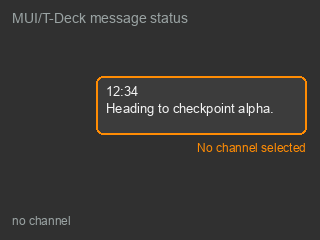
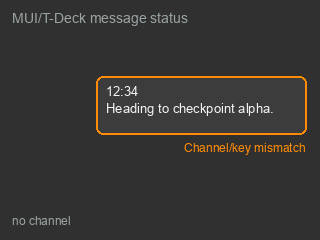
Update NO_CHANNEL message status wording

Changed region(s): [[0.5625, 0.5833, 0.9688, 0.6417]]

diff --git a/source/graphics/common/MessageStatus.cpp b/source/graphics/common/MessageStatus.cpp
@@ -9,7 +9,7 @@ constexpr Presentation channelImplicitAck{"Delivered to mesh", Tone::Success, fa
 constexpr Presentation directImplicitAck{"Relayed, not confirmed by recipient", Tone::Warning, true};
 constexpr Presentation explicitAck{"Delivered to recipient", Tone::Success, false};
 constexpr Presentation noAck{"Failed to deliver to mesh", Tone::RetryableFailure, true};
-constexpr Presentation noChannel{"No channel selected", Tone::RetryableFailure, true};
+constexpr Presentation noChannel{"Channel/key mismatch", Tone::RetryableFailure, true};
 constexpr Presentation genericEncryptedSendFailure{"Could not send encrypted message", Tone::RetryableFailure, true};
 constexpr Presentation recipientKeyUnavailable{"Recipient key unavailable", Tone::RetryableFailure, true};
 constexpr Presentation recipientNeedsSenderKey{"Recipient needs your key", Tone::RetryableFailure, true};

diff --git a/tests/test_MessageStatus.cpp b/tests/test_MessageStatus.cpp
@@ -14,7 +14,7 @@ TEST_CASE("MessageStatus canonical inline text")
           std::string("Relayed, not confirmed by recipient"));
     CHECK(MessageStatus::presentation(State::ExplicitAck).text == std::string("Delivered to recipient"));
     CHECK(MessageStatus::presentation(State::NoAck).text == std::string("Failed to deliver to mesh"));
-    CHECK(MessageStatus::presentation(State::NoChannel).text == std::string("No channel selected"));
+    CHECK(MessageStatus::presentation(State::NoChannel).text == std::string("Channel/key mismatch"));
     CHECK(MessageStatus::presentation(State::GenericEncryptedSendFailure).text ==
           std::string("Could not send encrypted message"));
     CHECK(MessageStatus::presentation(State::RecipientKeyUnavailable).text == std::string("Recipient key unavailable"));
